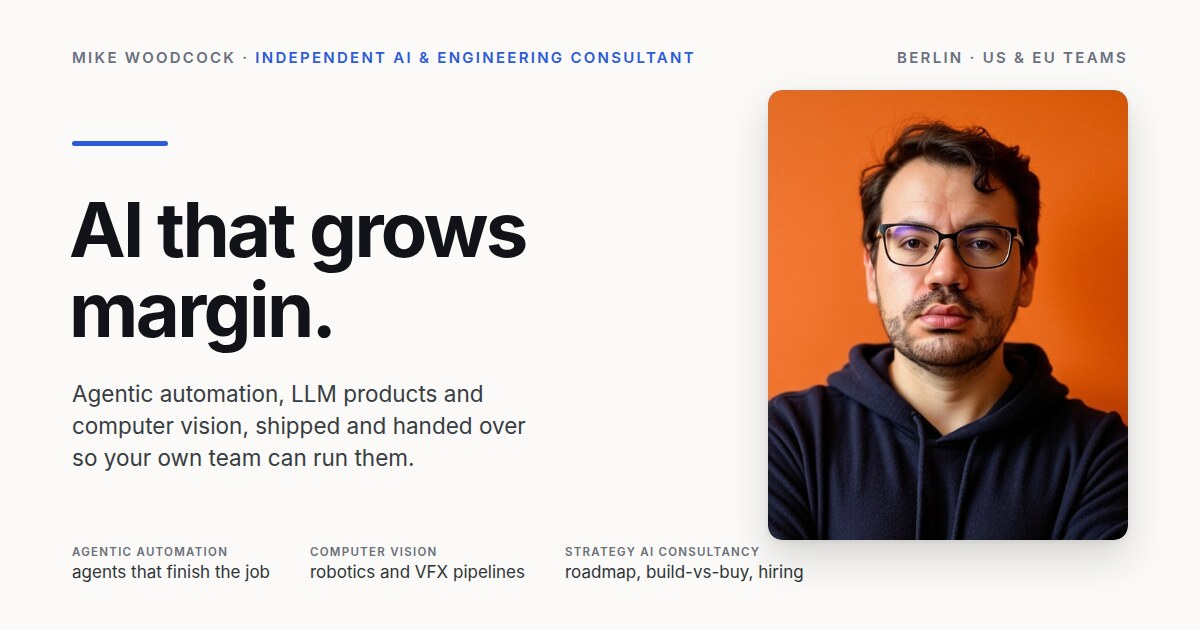
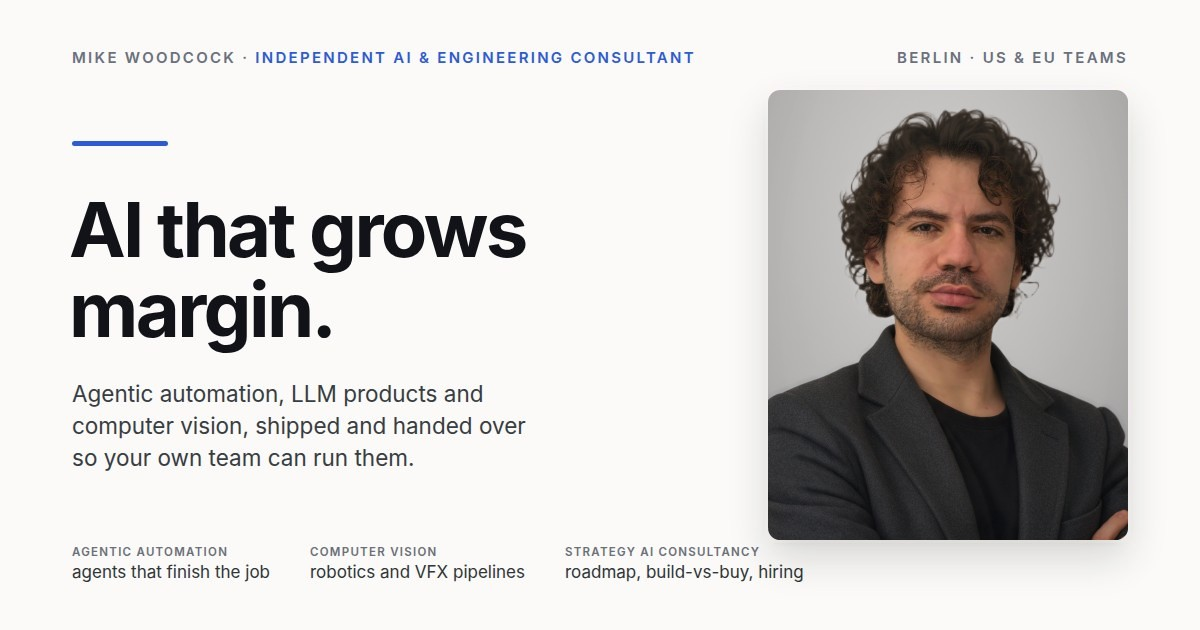
Link preview: og.jpg with the new blazer portrait, bump og:image version to 20261112 (card 87dc39a9)

Changed region(s): [[0.6167, 0.1206, 0.9558, 0.8746]]

diff --git a/index.html b/index.html
@@ -10,14 +10,14 @@
 <meta property="og:title" content="Mike Woodcock — AI that grows margin">
 <meta property="og:description" content="Independent AI &amp; engineering consultant. Agentic automation, LLM products and computer vision, shipped and handed over so your own team can run them.">
 <meta property="og:url" content="https://mikew.io/">
-<meta property="og:image" content="https://mikew.io/og.jpg?v=20261101">
+<meta property="og:image" content="https://mikew.io/og.jpg?v=20261112">
 <meta property="og:image:width" content="1200">
 <meta property="og:image:height" content="630">
 <meta property="og:image:alt" content="Mike Woodcock, independent AI and engineering consultant. AI that grows margin.">
 <meta name="twitter:card" content="summary_large_image">
 <meta name="twitter:title" content="Mike Woodcock — AI that grows margin">
 <meta name="twitter:description" content="Independent AI &amp; engineering consultant. Agentic automation, LLM products and computer vision, shipped to production for startups.">
-<meta name="twitter:image" content="https://mikew.io/og.jpg?v=20261101">
+<meta name="twitter:image" content="https://mikew.io/og.jpg?v=20261112">
 <meta name="theme-color" content="#fbfaf8">
 <link rel="canonical" href="https://mikew.io/">
 <link rel="icon" href="/favicon.ico">

diff --git a/vfx/index.html b/vfx/index.html
@@ -13,7 +13,7 @@
 <meta property="og:url" content="https://mikew.io/vfx/">
 <meta property="og:title" content="Set to Screen · Mike Woodcock">
 <meta property="og:description" content="Computer vision for virtual production, from camera to coordinates to Gaussian splats to the LED wall.">
-<meta property="og:image" content="https://mikew.io/og.jpg?v=20261101">
+<meta property="og:image" content="https://mikew.io/og.jpg?v=20261112">
 <meta name="twitter:card" content="summary_large_image">
 <meta name="description" content="Mike Woodcock: computer vision for virtual production, from camera to coordinates to Gaussian splats to the LED wall.">
 <link rel="preconnect" href="https://fonts.googleapis.com">

diff --git a/about/index.html b/about/index.html
@@ -14,7 +14,7 @@
 <meta property="og:url" content="https://mikew.io/about/">
 <meta property="og:title" content="About Mike Woodcock">
 <meta property="og:description" content="Ten years of turning research into things that run: Edinburgh, Kopernikus and Ford, SellerX, and independent since 2026.">
-<meta property="og:image" content="https://mikew.io/og.jpg?v=20261101">
+<meta property="og:image" content="https://mikew.io/og.jpg?v=20261112">
 <meta name="twitter:card" content="summary_large_image">
 <style>
 :root{
